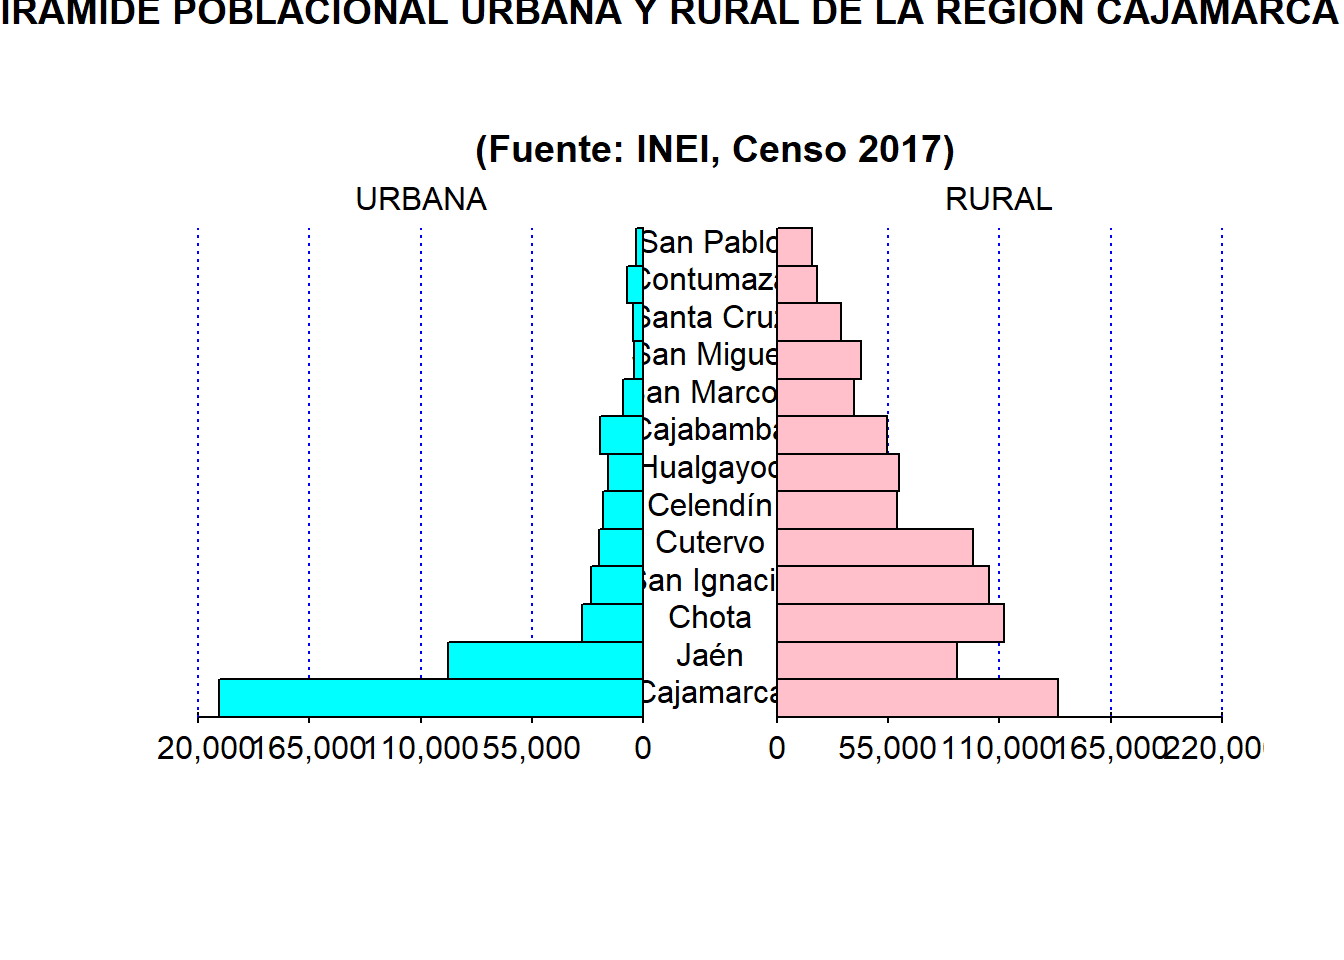
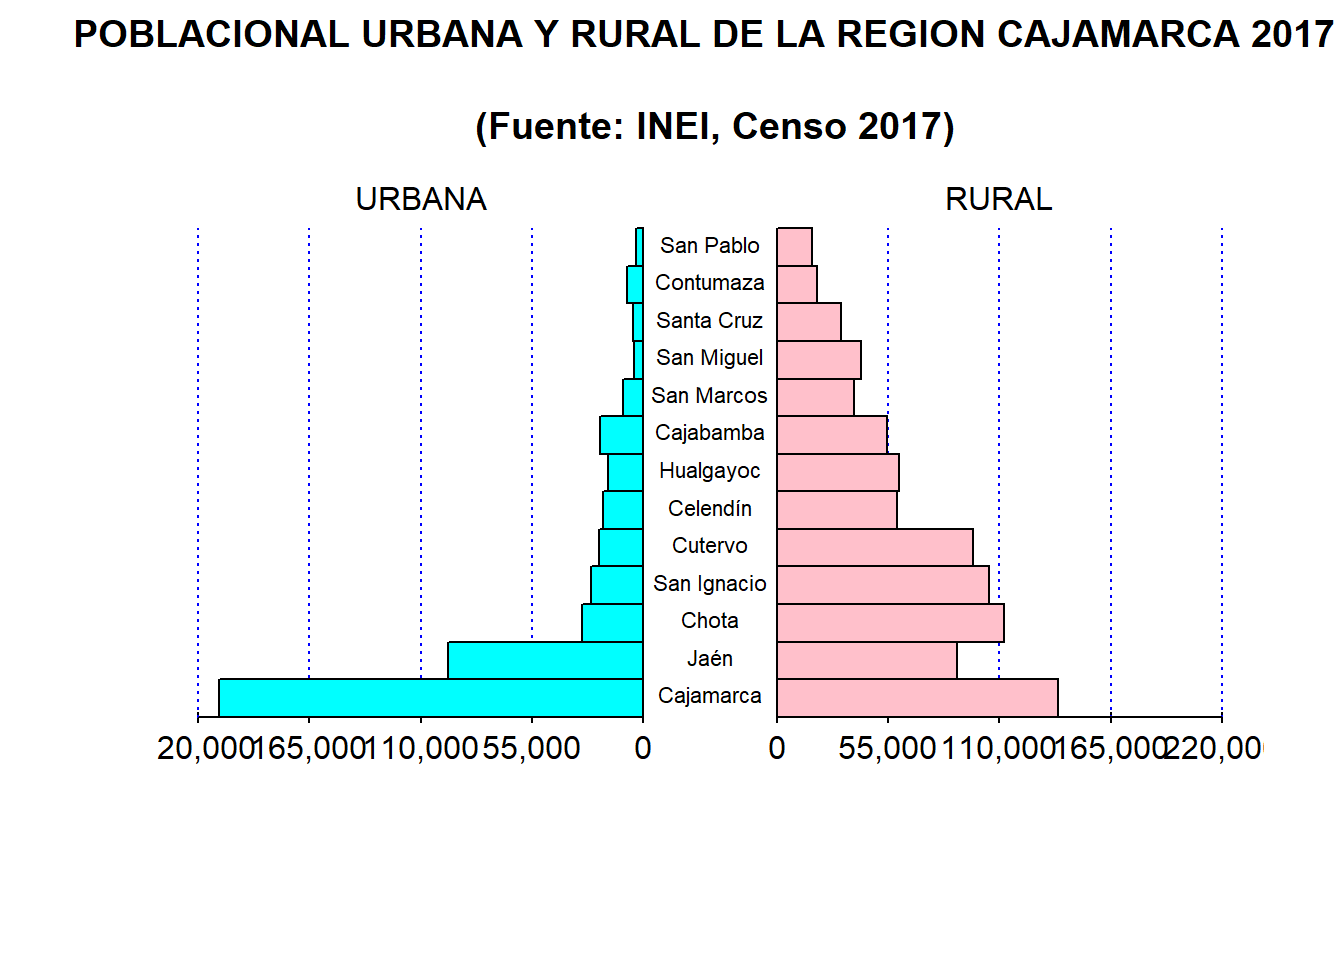
actualizar

Changed region(s): [[0.0, 0.0, 1.0, 0.0625], [0.4688, 0.2188, 0.5938, 0.75], [0.3438, 0.0938, 0.7188, 0.1875]]

diff --git a/docs/Blogs.html b/docs/Blogs.html
@@ -198,13 +198,12 @@ code span.wa { color: #60a0b0; font-weight: bold; font-style: italic; } /* Warni
 <span id="cb2-12"><a href="#cb2-12" aria-hidden="true" tabindex="-1"></a></span>
 <span id="cb2-13"><a href="#cb2-13" aria-hidden="true" tabindex="-1"></a><span class="fu">pyramid</span>(ppur,<span class="at">Llab=</span><span class="st">"URBANA"</span>,<span class="at">Rlab=</span><span class="st">"RURAL"</span>,<span class="at">Clab=</span><span class="st">""</span>,</span>
 <span id="cb2-14"><a href="#cb2-14" aria-hidden="true" tabindex="-1"></a>        </span>
-<span id="cb2-15"><a href="#cb2-15" aria-hidden="true" tabindex="-1"></a>        <span class="at">Laxis=</span><span class="fu">seq</span>(<span class="dv">0</span>,<span class="dv">220000</span>,<span class="at">len=</span><span class="dv">5</span>), <span class="at">AxisFM=</span><span class="st">"d"</span>, <span class="at">AxisBM=</span><span class="st">","</span>, <span class="at">Csize=</span><span class="dv">1</span>,</span>
+<span id="cb2-15"><a href="#cb2-15" aria-hidden="true" tabindex="-1"></a>        <span class="at">Laxis=</span><span class="fu">seq</span>(<span class="dv">0</span>,<span class="dv">220000</span>,<span class="at">len=</span><span class="dv">5</span>), <span class="at">AxisFM=</span><span class="st">"d"</span>, <span class="at">AxisBM=</span><span class="st">","</span>, <span class="at">Csize=</span><span class="fl">0.7</span>,</span>
 <span id="cb2-16"><a href="#cb2-16" aria-hidden="true" tabindex="-1"></a>        </span>
 <span id="cb2-17"><a href="#cb2-17" aria-hidden="true" tabindex="-1"></a>        <span class="at">Cstep=</span><span class="dv">1</span>, <span class="at">Cadj=</span><span class="sc">-</span><span class="fl">0.01</span>,</span>
 <span id="cb2-18"><a href="#cb2-18" aria-hidden="true" tabindex="-1"></a>        </span>
-<span id="cb2-19"><a href="#cb2-19" aria-hidden="true" tabindex="-1"></a>        <span class="at">main=</span><span class="st">"PIRAMIDE POBLACIONAL URBANA Y RURAL DE LA REGION CAJAMARCA 2017 </span></span>
-<span id="cb2-20"><a href="#cb2-20" aria-hidden="true" tabindex="-1"></a></span>
-<span id="cb2-21"><a href="#cb2-21" aria-hidden="true" tabindex="-1"></a><span class="st">        </span><span class="sc">\n</span><span class="st"> (Fuente: INEI, Censo 2017)"</span>)</span></code><button title="Copy to Clipboard" class="code-copy-button"><i class="bi"></i></button></pre></div>
+<span id="cb2-19"><a href="#cb2-19" aria-hidden="true" tabindex="-1"></a>        <span class="at">main=</span><span class="st">"POBLACIONAL URBANA Y RURAL DE LA REGION CAJAMARCA 2017 </span></span>
+<span id="cb2-20"><a href="#cb2-20" aria-hidden="true" tabindex="-1"></a><span class="st">        </span><span class="sc">\n</span><span class="st"> (Fuente: INEI, Censo 2017)"</span>)</span></code><button title="Copy to Clipboard" class="code-copy-button"><i class="bi"></i></button></pre></div>
 <div class="cell-output-display">
 <p><img src="Blogs_files/figure-html/unnamed-chunk-2-1.png" class="img-fluid" width="672"></p>
 </div>
